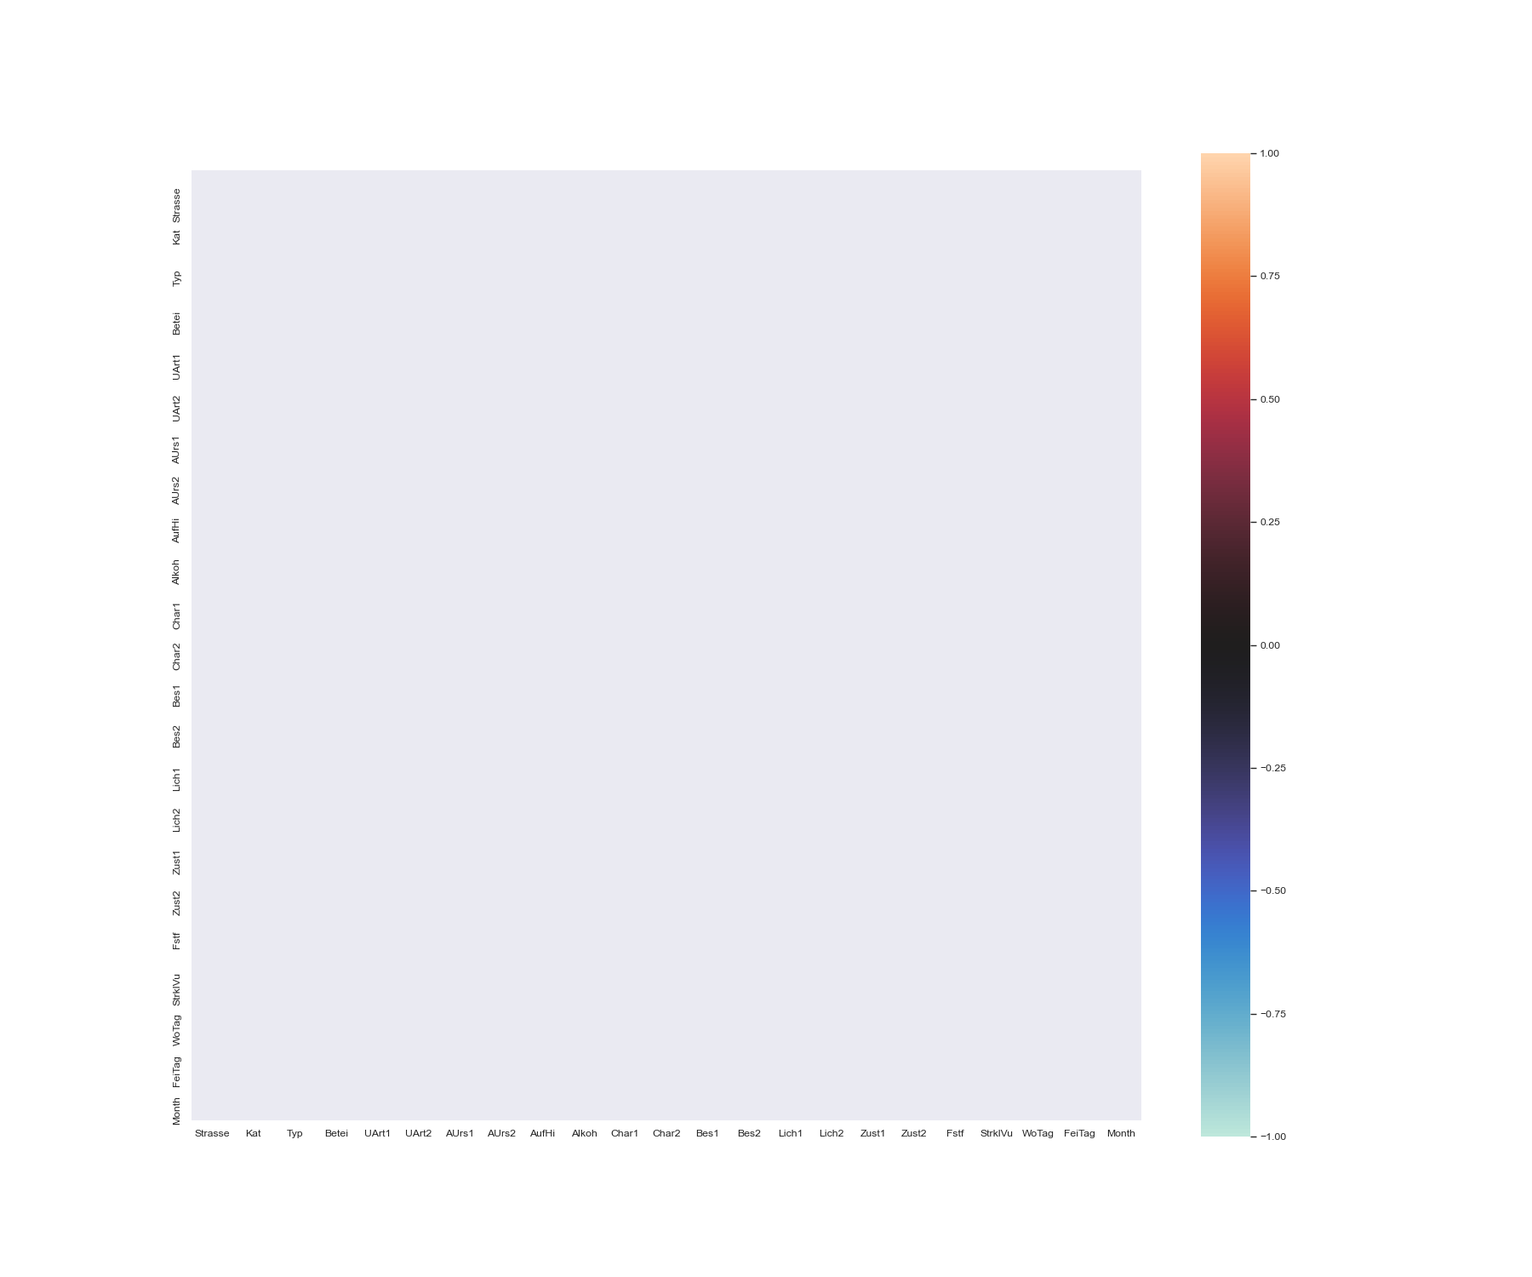
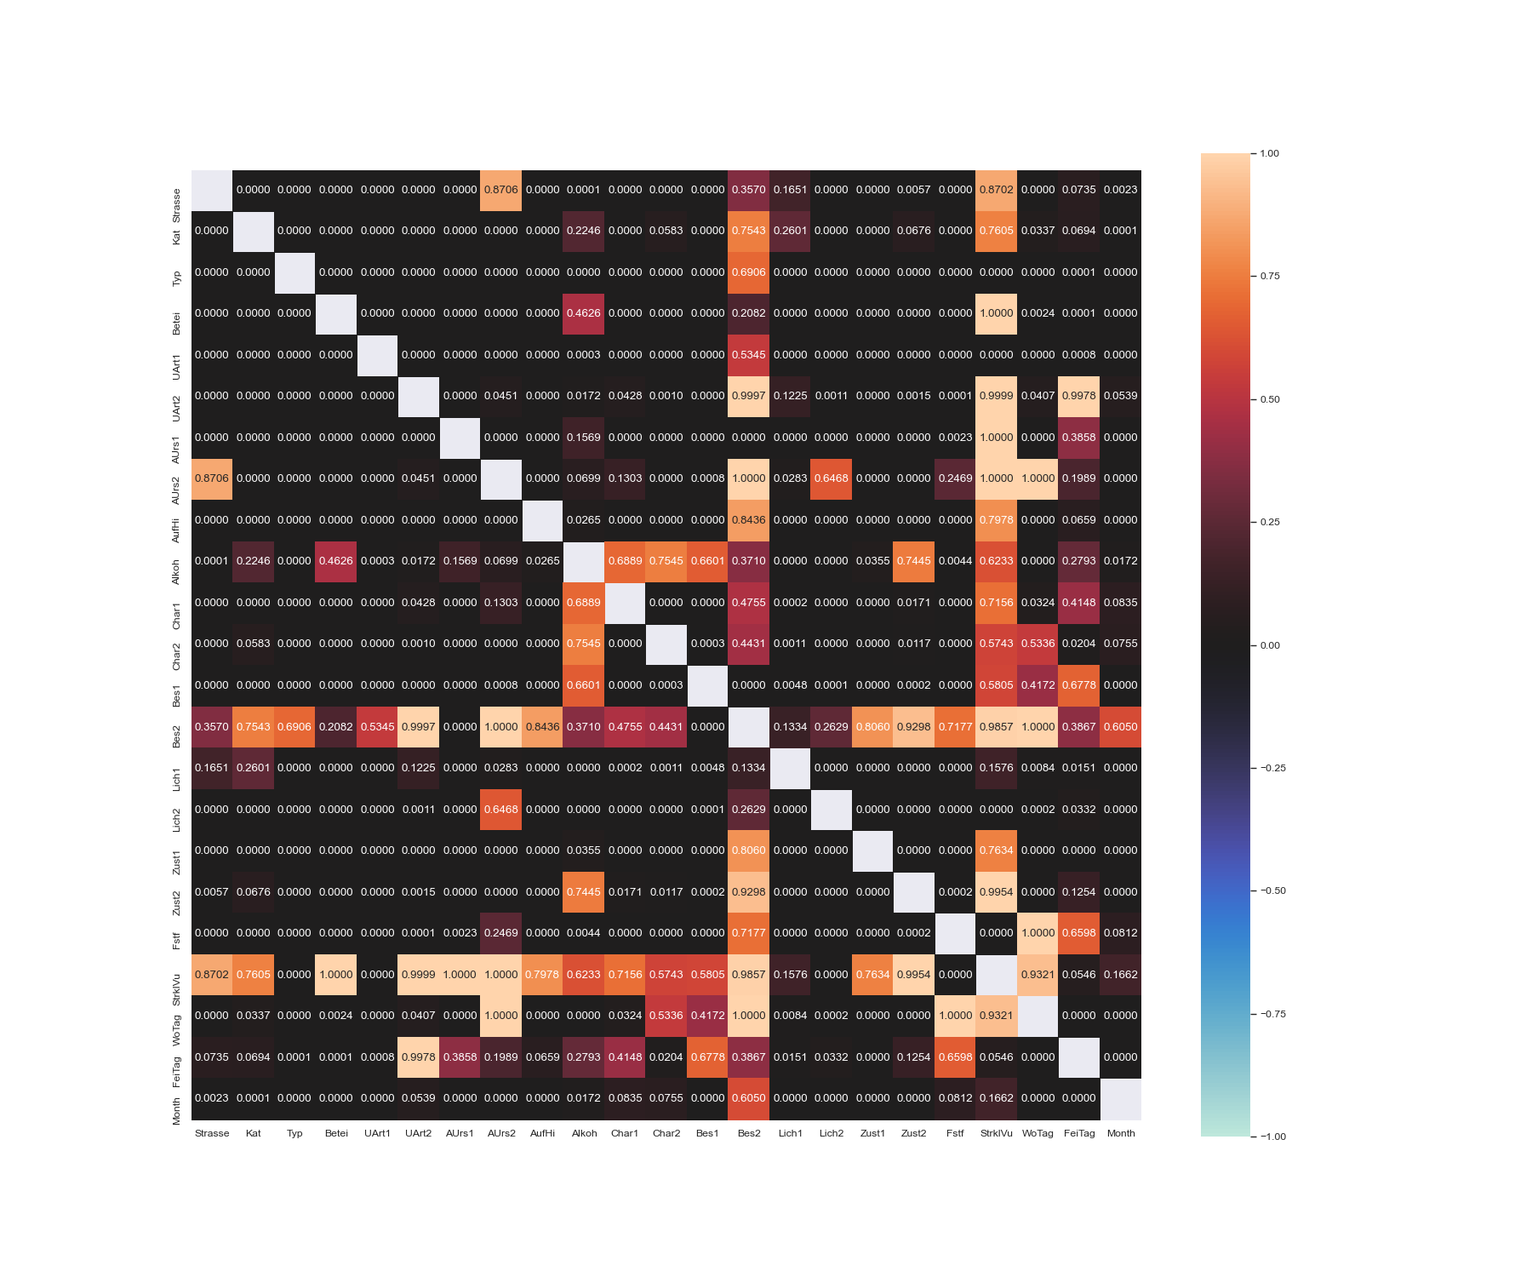
cramers v and theils u now with soignifnancy

diff --git a/CorrAnalysis/data/BAYSIS/dataset/latex/baysis_dataset_sign_cramers.tex b/CorrAnalysis/data/BAYSIS/dataset/latex/baysis_dataset_sign_cramers.tex
@@ -1,29 +1,29 @@
 \begin{tabular}{lrrrrrrrrrrrrrrrrrrrrrrr}
 \toprule
-{} &  Strasse &  Kat &  Typ &  Betei &  UArt1 &  UArt2 &  AUrs1 &  AUrs2 &  AufHi &  Alkoh &  Char1 &  Char2 &  Bes1 &  Bes2 &  Lich1 &  Lich2 &  Zust1 &  Zust2 &  Fstf &  StrklVu &  WoTag &  FeiTag &  Month \\
+{} &  Strasse &     Kat &     Typ &   Betei &   UArt1 &   UArt2 &   AUrs1 &   AUrs2 &   AufHi &   Alkoh &   Char1 &   Char2 &    Bes1 &    Bes2 &   Lich1 &   Lich2 &   Zust1 &   Zust2 &    Fstf &  StrklVu &   WoTag &  FeiTag &   Month \\
 \midrule
-Strasse &      NaN &  NaN &  NaN &    NaN &    NaN &    NaN &    NaN &    NaN &    NaN &    NaN &    NaN &    NaN &   NaN &   NaN &    NaN &    NaN &    NaN &    NaN &   NaN &      NaN &    NaN &     NaN &    NaN \\
-Kat     &      NaN &  NaN &  NaN &    NaN &    NaN &    NaN &    NaN &    NaN &    NaN &    NaN &    NaN &    NaN &   NaN &   NaN &    NaN &    NaN &    NaN &    NaN &   NaN &      NaN &    NaN &     NaN &    NaN \\
-Typ     &      NaN &  NaN &  NaN &    NaN &    NaN &    NaN &    NaN &    NaN &    NaN &    NaN &    NaN &    NaN &   NaN &   NaN &    NaN &    NaN &    NaN &    NaN &   NaN &      NaN &    NaN &     NaN &    NaN \\
-Betei   &      NaN &  NaN &  NaN &    NaN &    NaN &    NaN &    NaN &    NaN &    NaN &    NaN &    NaN &    NaN &   NaN &   NaN &    NaN &    NaN &    NaN &    NaN &   NaN &      NaN &    NaN &     NaN &    NaN \\
-UArt1   &      NaN &  NaN &  NaN &    NaN &    NaN &    NaN &    NaN &    NaN &    NaN &    NaN &    NaN &    NaN &   NaN &   NaN &    NaN &    NaN &    NaN &    NaN &   NaN &      NaN &    NaN &     NaN &    NaN \\
-UArt2   &      NaN &  NaN &  NaN &    NaN &    NaN &    NaN &    NaN &    NaN &    NaN &    NaN &    NaN &    NaN &   NaN &   NaN &    NaN &    NaN &    NaN &    NaN &   NaN &      NaN &    NaN &     NaN &    NaN \\
-AUrs1   &      NaN &  NaN &  NaN &    NaN &    NaN &    NaN &    NaN &    NaN &    NaN &    NaN &    NaN &    NaN &   NaN &   NaN &    NaN &    NaN &    NaN &    NaN &   NaN &      NaN &    NaN &     NaN &    NaN \\
-AUrs2   &      NaN &  NaN &  NaN &    NaN &    NaN &    NaN &    NaN &    NaN &    NaN &    NaN &    NaN &    NaN &   NaN &   NaN &    NaN &    NaN &    NaN &    NaN &   NaN &      NaN &    NaN &     NaN &    NaN \\
-AufHi   &      NaN &  NaN &  NaN &    NaN &    NaN &    NaN &    NaN &    NaN &    NaN &    NaN &    NaN &    NaN &   NaN &   NaN &    NaN &    NaN &    NaN &    NaN &   NaN &      NaN &    NaN &     NaN &    NaN \\
-Alkoh   &      NaN &  NaN &  NaN &    NaN &    NaN &    NaN &    NaN &    NaN &    NaN &    NaN &    NaN &    NaN &   NaN &   NaN &    NaN &    NaN &    NaN &    NaN &   NaN &      NaN &    NaN &     NaN &    NaN \\
-Char1   &      NaN &  NaN &  NaN &    NaN &    NaN &    NaN &    NaN &    NaN &    NaN &    NaN &    NaN &    NaN &   NaN &   NaN &    NaN &    NaN &    NaN &    NaN &   NaN &      NaN &    NaN &     NaN &    NaN \\
-Char2   &      NaN &  NaN &  NaN &    NaN &    NaN &    NaN &    NaN &    NaN &    NaN &    NaN &    NaN &    NaN &   NaN &   NaN &    NaN &    NaN &    NaN &    NaN &   NaN &      NaN &    NaN &     NaN &    NaN \\
-Bes1    &      NaN &  NaN &  NaN &    NaN &    NaN &    NaN &    NaN &    NaN &    NaN &    NaN &    NaN &    NaN &   NaN &   NaN &    NaN &    NaN &    NaN &    NaN &   NaN &      NaN &    NaN &     NaN &    NaN \\
-Bes2    &      NaN &  NaN &  NaN &    NaN &    NaN &    NaN &    NaN &    NaN &    NaN &    NaN &    NaN &    NaN &   NaN &   NaN &    NaN &    NaN &    NaN &    NaN &   NaN &      NaN &    NaN &     NaN &    NaN \\
-Lich1   &      NaN &  NaN &  NaN &    NaN &    NaN &    NaN &    NaN &    NaN &    NaN &    NaN &    NaN &    NaN &   NaN &   NaN &    NaN &    NaN &    NaN &    NaN &   NaN &      NaN &    NaN &     NaN &    NaN \\
-Lich2   &      NaN &  NaN &  NaN &    NaN &    NaN &    NaN &    NaN &    NaN &    NaN &    NaN &    NaN &    NaN &   NaN &   NaN &    NaN &    NaN &    NaN &    NaN &   NaN &      NaN &    NaN &     NaN &    NaN \\
-Zust1   &      NaN &  NaN &  NaN &    NaN &    NaN &    NaN &    NaN &    NaN &    NaN &    NaN &    NaN &    NaN &   NaN &   NaN &    NaN &    NaN &    NaN &    NaN &   NaN &      NaN &    NaN &     NaN &    NaN \\
-Zust2   &      NaN &  NaN &  NaN &    NaN &    NaN &    NaN &    NaN &    NaN &    NaN &    NaN &    NaN &    NaN &   NaN &   NaN &    NaN &    NaN &    NaN &    NaN &   NaN &      NaN &    NaN &     NaN &    NaN \\
-Fstf    &      NaN &  NaN &  NaN &    NaN &    NaN &    NaN &    NaN &    NaN &    NaN &    NaN &    NaN &    NaN &   NaN &   NaN &    NaN &    NaN &    NaN &    NaN &   NaN &      NaN &    NaN &     NaN &    NaN \\
-StrklVu &      NaN &  NaN &  NaN &    NaN &    NaN &    NaN &    NaN &    NaN &    NaN &    NaN &    NaN &    NaN &   NaN &   NaN &    NaN &    NaN &    NaN &    NaN &   NaN &      NaN &    NaN &     NaN &    NaN \\
-WoTag   &      NaN &  NaN &  NaN &    NaN &    NaN &    NaN &    NaN &    NaN &    NaN &    NaN &    NaN &    NaN &   NaN &   NaN &    NaN &    NaN &    NaN &    NaN &   NaN &      NaN &    NaN &     NaN &    NaN \\
-FeiTag  &      NaN &  NaN &  NaN &    NaN &    NaN &    NaN &    NaN &    NaN &    NaN &    NaN &    NaN &    NaN &   NaN &   NaN &    NaN &    NaN &    NaN &    NaN &   NaN &      NaN &    NaN &     NaN &    NaN \\
-Month   &      NaN &  NaN &  NaN &    NaN &    NaN &    NaN &    NaN &    NaN &    NaN &    NaN &    NaN &    NaN &   NaN &   NaN &    NaN &    NaN &    NaN &    NaN &   NaN &      NaN &    NaN &     NaN &    NaN \\
+Strasse &      NaN &  0.0000 &  0.0000 &  0.0000 &  0.0000 &  0.0000 &  0.0000 &  0.8706 &  0.0000 &  0.0001 &  0.0000 &  0.0000 &  0.0000 &  0.3570 &  0.1651 &  0.0000 &  0.0000 &  0.0057 &  0.0000 &   0.8702 &  0.0000 &  0.0735 &  0.0023 \\
+Kat     &   0.0000 &     NaN &  0.0000 &  0.0000 &  0.0000 &  0.0000 &  0.0000 &  0.0000 &  0.0000 &  0.2246 &  0.0000 &  0.0583 &  0.0000 &  0.7543 &  0.2601 &  0.0000 &  0.0000 &  0.0676 &  0.0000 &   0.7605 &  0.0337 &  0.0694 &  0.0001 \\
+Typ     &   0.0000 &  0.0000 &     NaN &  0.0000 &  0.0000 &  0.0000 &  0.0000 &  0.0000 &  0.0000 &  0.0000 &  0.0000 &  0.0000 &  0.0000 &  0.6906 &  0.0000 &  0.0000 &  0.0000 &  0.0000 &  0.0000 &   0.0000 &  0.0000 &  0.0001 &  0.0000 \\
+Betei   &   0.0000 &  0.0000 &  0.0000 &     NaN &  0.0000 &  0.0000 &  0.0000 &  0.0000 &  0.0000 &  0.4626 &  0.0000 &  0.0000 &  0.0000 &  0.2082 &  0.0000 &  0.0000 &  0.0000 &  0.0000 &  0.0000 &   1.0000 &  0.0024 &  0.0001 &  0.0000 \\
+UArt1   &   0.0000 &  0.0000 &  0.0000 &  0.0000 &     NaN &  0.0000 &  0.0000 &  0.0000 &  0.0000 &  0.0003 &  0.0000 &  0.0000 &  0.0000 &  0.5345 &  0.0000 &  0.0000 &  0.0000 &  0.0000 &  0.0000 &   0.0000 &  0.0000 &  0.0008 &  0.0000 \\
+UArt2   &   0.0000 &  0.0000 &  0.0000 &  0.0000 &  0.0000 &     NaN &  0.0000 &  0.0451 &  0.0000 &  0.0172 &  0.0428 &  0.0010 &  0.0000 &  0.9997 &  0.1225 &  0.0011 &  0.0000 &  0.0015 &  0.0001 &   0.9999 &  0.0407 &  0.9978 &  0.0539 \\
+AUrs1   &   0.0000 &  0.0000 &  0.0000 &  0.0000 &  0.0000 &  0.0000 &     NaN &  0.0000 &  0.0000 &  0.1569 &  0.0000 &  0.0000 &  0.0000 &  0.0000 &  0.0000 &  0.0000 &  0.0000 &  0.0000 &  0.0023 &   1.0000 &  0.0000 &  0.3858 &  0.0000 \\
+AUrs2   &   0.8706 &  0.0000 &  0.0000 &  0.0000 &  0.0000 &  0.0451 &  0.0000 &     NaN &  0.0000 &  0.0699 &  0.1303 &  0.0000 &  0.0008 &  1.0000 &  0.0283 &  0.6468 &  0.0000 &  0.0000 &  0.2469 &   1.0000 &  1.0000 &  0.1989 &  0.0000 \\
+AufHi   &   0.0000 &  0.0000 &  0.0000 &  0.0000 &  0.0000 &  0.0000 &  0.0000 &  0.0000 &     NaN &  0.0265 &  0.0000 &  0.0000 &  0.0000 &  0.8436 &  0.0000 &  0.0000 &  0.0000 &  0.0000 &  0.0000 &   0.7978 &  0.0000 &  0.0659 &  0.0000 \\
+Alkoh   &   0.0001 &  0.2246 &  0.0000 &  0.4626 &  0.0003 &  0.0172 &  0.1569 &  0.0699 &  0.0265 &     NaN &  0.6889 &  0.7545 &  0.6601 &  0.3710 &  0.0000 &  0.0000 &  0.0355 &  0.7445 &  0.0044 &   0.6233 &  0.0000 &  0.2793 &  0.0172 \\
+Char1   &   0.0000 &  0.0000 &  0.0000 &  0.0000 &  0.0000 &  0.0428 &  0.0000 &  0.1303 &  0.0000 &  0.6889 &     NaN &  0.0000 &  0.0000 &  0.4755 &  0.0002 &  0.0000 &  0.0000 &  0.0171 &  0.0000 &   0.7156 &  0.0324 &  0.4148 &  0.0835 \\
+Char2   &   0.0000 &  0.0583 &  0.0000 &  0.0000 &  0.0000 &  0.0010 &  0.0000 &  0.0000 &  0.0000 &  0.7545 &  0.0000 &     NaN &  0.0003 &  0.4431 &  0.0011 &  0.0000 &  0.0000 &  0.0117 &  0.0000 &   0.5743 &  0.5336 &  0.0204 &  0.0755 \\
+Bes1    &   0.0000 &  0.0000 &  0.0000 &  0.0000 &  0.0000 &  0.0000 &  0.0000 &  0.0008 &  0.0000 &  0.6601 &  0.0000 &  0.0003 &     NaN &  0.0000 &  0.0048 &  0.0001 &  0.0000 &  0.0002 &  0.0000 &   0.5805 &  0.4172 &  0.6778 &  0.0000 \\
+Bes2    &   0.3570 &  0.7543 &  0.6906 &  0.2082 &  0.5345 &  0.9997 &  0.0000 &  1.0000 &  0.8436 &  0.3710 &  0.4755 &  0.4431 &  0.0000 &     NaN &  0.1334 &  0.2629 &  0.8060 &  0.9298 &  0.7177 &   0.9857 &  1.0000 &  0.3867 &  0.6050 \\
+Lich1   &   0.1651 &  0.2601 &  0.0000 &  0.0000 &  0.0000 &  0.1225 &  0.0000 &  0.0283 &  0.0000 &  0.0000 &  0.0002 &  0.0011 &  0.0048 &  0.1334 &     NaN &  0.0000 &  0.0000 &  0.0000 &  0.0000 &   0.1576 &  0.0084 &  0.0151 &  0.0000 \\
+Lich2   &   0.0000 &  0.0000 &  0.0000 &  0.0000 &  0.0000 &  0.0011 &  0.0000 &  0.6468 &  0.0000 &  0.0000 &  0.0000 &  0.0000 &  0.0001 &  0.2629 &  0.0000 &     NaN &  0.0000 &  0.0000 &  0.0000 &   0.0000 &  0.0002 &  0.0332 &  0.0000 \\
+Zust1   &   0.0000 &  0.0000 &  0.0000 &  0.0000 &  0.0000 &  0.0000 &  0.0000 &  0.0000 &  0.0000 &  0.0355 &  0.0000 &  0.0000 &  0.0000 &  0.8060 &  0.0000 &  0.0000 &     NaN &  0.0000 &  0.0000 &   0.7634 &  0.0000 &  0.0000 &  0.0000 \\
+Zust2   &   0.0057 &  0.0676 &  0.0000 &  0.0000 &  0.0000 &  0.0015 &  0.0000 &  0.0000 &  0.0000 &  0.7445 &  0.0171 &  0.0117 &  0.0002 &  0.9298 &  0.0000 &  0.0000 &  0.0000 &     NaN &  0.0002 &   0.9954 &  0.0000 &  0.1254 &  0.0000 \\
+Fstf    &   0.0000 &  0.0000 &  0.0000 &  0.0000 &  0.0000 &  0.0001 &  0.0023 &  0.2469 &  0.0000 &  0.0044 &  0.0000 &  0.0000 &  0.0000 &  0.7177 &  0.0000 &  0.0000 &  0.0000 &  0.0002 &     NaN &   0.0000 &  1.0000 &  0.6598 &  0.0812 \\
+StrklVu &   0.8702 &  0.7605 &  0.0000 &  1.0000 &  0.0000 &  0.9999 &  1.0000 &  1.0000 &  0.7978 &  0.6233 &  0.7156 &  0.5743 &  0.5805 &  0.9857 &  0.1576 &  0.0000 &  0.7634 &  0.9954 &  0.0000 &      NaN &  0.9321 &  0.0546 &  0.1662 \\
+WoTag   &   0.0000 &  0.0337 &  0.0000 &  0.0024 &  0.0000 &  0.0407 &  0.0000 &  1.0000 &  0.0000 &  0.0000 &  0.0324 &  0.5336 &  0.4172 &  1.0000 &  0.0084 &  0.0002 &  0.0000 &  0.0000 &  1.0000 &   0.9321 &     NaN &  0.0000 &  0.0000 \\
+FeiTag  &   0.0735 &  0.0694 &  0.0001 &  0.0001 &  0.0008 &  0.9978 &  0.3858 &  0.1989 &  0.0659 &  0.2793 &  0.4148 &  0.0204 &  0.6778 &  0.3867 &  0.0151 &  0.0332 &  0.0000 &  0.1254 &  0.6598 &   0.0546 &  0.0000 &     NaN &  0.0000 \\
+Month   &   0.0023 &  0.0001 &  0.0000 &  0.0000 &  0.0000 &  0.0539 &  0.0000 &  0.0000 &  0.0000 &  0.0172 &  0.0835 &  0.0755 &  0.0000 &  0.6050 &  0.0000 &  0.0000 &  0.0000 &  0.0000 &  0.0812 &   0.1662 &  0.0000 &  0.0000 &     NaN \\
 \bottomrule
 \end{tabular}

diff --git a/CorrAnalysis/data/BAYSIS/dataset/latex/baysis_dataset_sign_theils.tex b/CorrAnalysis/data/BAYSIS/dataset/latex/baysis_dataset_sign_theils.tex
@@ -1,29 +1,29 @@
 \begin{tabular}{lrrrrrrrrrrrrrrrrrrrrrrr}
 \toprule
-{} &  Strasse &  Kat &  Typ &  Betei &  UArt1 &  UArt2 &  AUrs1 &  AUrs2 &  AufHi &  Alkoh &  Char1 &  Char2 &  Bes1 &  Bes2 &  Lich1 &  Lich2 &  Zust1 &  Zust2 &  Fstf &  StrklVu &  WoTag &  FeiTag &  Month \\
+{} &  Strasse &     Kat &     Typ &   Betei &   UArt1 &   UArt2 &   AUrs1 &   AUrs2 &   AufHi &   Alkoh &   Char1 &   Char2 &    Bes1 &    Bes2 &   Lich1 &   Lich2 &   Zust1 &   Zust2 &    Fstf &  StrklVu &   WoTag &  FeiTag &   Month \\
 \midrule
-Strasse &      NaN &  NaN &  NaN &    NaN &    NaN &    NaN &    NaN &    NaN &    NaN &    NaN &    NaN &    NaN &   NaN &   NaN &    NaN &    NaN &    NaN &    NaN &   NaN &      NaN &    NaN &     NaN &    NaN \\
-Kat     &      NaN &  NaN &  NaN &    NaN &    NaN &    NaN &    NaN &    NaN &    NaN &    NaN &    NaN &    NaN &   NaN &   NaN &    NaN &    NaN &    NaN &    NaN &   NaN &      NaN &    NaN &     NaN &    NaN \\
-Typ     &      NaN &  NaN &  NaN &    NaN &    NaN &    NaN &    NaN &    NaN &    NaN &    NaN &    NaN &    NaN &   NaN &   NaN &    NaN &    NaN &    NaN &    NaN &   NaN &      NaN &    NaN &     NaN &    NaN \\
-Betei   &      NaN &  NaN &  NaN &    NaN &    NaN &    NaN &    NaN &    NaN &    NaN &    NaN &    NaN &    NaN &   NaN &   NaN &    NaN &    NaN &    NaN &    NaN &   NaN &      NaN &    NaN &     NaN &    NaN \\
-UArt1   &      NaN &  NaN &  NaN &    NaN &    NaN &    NaN &    NaN &    NaN &    NaN &    NaN &    NaN &    NaN &   NaN &   NaN &    NaN &    NaN &    NaN &    NaN &   NaN &      NaN &    NaN &     NaN &    NaN \\
-UArt2   &      NaN &  NaN &  NaN &    NaN &    NaN &    NaN &    NaN &    NaN &    NaN &    NaN &    NaN &    NaN &   NaN &   NaN &    NaN &    NaN &    NaN &    NaN &   NaN &      NaN &    NaN &     NaN &    NaN \\
-AUrs1   &      NaN &  NaN &  NaN &    NaN &    NaN &    NaN &    NaN &    NaN &    NaN &    NaN &    NaN &    NaN &   NaN &   NaN &    NaN &    NaN &    NaN &    NaN &   NaN &      NaN &    NaN &     NaN &    NaN \\
-AUrs2   &      NaN &  NaN &  NaN &    NaN &    NaN &    NaN &    NaN &    NaN &    NaN &    NaN &    NaN &    NaN &   NaN &   NaN &    NaN &    NaN &    NaN &    NaN &   NaN &      NaN &    NaN &     NaN &    NaN \\
-AufHi   &      NaN &  NaN &  NaN &    NaN &    NaN &    NaN &    NaN &    NaN &    NaN &    NaN &    NaN &    NaN &   NaN &   NaN &    NaN &    NaN &    NaN &    NaN &   NaN &      NaN &    NaN &     NaN &    NaN \\
-Alkoh   &      NaN &  NaN &  NaN &    NaN &    NaN &    NaN &    NaN &    NaN &    NaN &    NaN &    NaN &    NaN &   NaN &   NaN &    NaN &    NaN &    NaN &    NaN &   NaN &      NaN &    NaN &     NaN &    NaN \\
-Char1   &      NaN &  NaN &  NaN &    NaN &    NaN &    NaN &    NaN &    NaN &    NaN &    NaN &    NaN &    NaN &   NaN &   NaN &    NaN &    NaN &    NaN &    NaN &   NaN &      NaN &    NaN &     NaN &    NaN \\
-Char2   &      NaN &  NaN &  NaN &    NaN &    NaN &    NaN &    NaN &    NaN &    NaN &    NaN &    NaN &    NaN &   NaN &   NaN &    NaN &    NaN &    NaN &    NaN &   NaN &      NaN &    NaN &     NaN &    NaN \\
-Bes1    &      NaN &  NaN &  NaN &    NaN &    NaN &    NaN &    NaN &    NaN &    NaN &    NaN &    NaN &    NaN &   NaN &   NaN &    NaN &    NaN &    NaN &    NaN &   NaN &      NaN &    NaN &     NaN &    NaN \\
-Bes2    &      NaN &  NaN &  NaN &    NaN &    NaN &    NaN &    NaN &    NaN &    NaN &    NaN &    NaN &    NaN &   NaN &   NaN &    NaN &    NaN &    NaN &    NaN &   NaN &      NaN &    NaN &     NaN &    NaN \\
-Lich1   &      NaN &  NaN &  NaN &    NaN &    NaN &    NaN &    NaN &    NaN &    NaN &    NaN &    NaN &    NaN &   NaN &   NaN &    NaN &    NaN &    NaN &    NaN &   NaN &      NaN &    NaN &     NaN &    NaN \\
-Lich2   &      NaN &  NaN &  NaN &    NaN &    NaN &    NaN &    NaN &    NaN &    NaN &    NaN &    NaN &    NaN &   NaN &   NaN &    NaN &    NaN &    NaN &    NaN &   NaN &      NaN &    NaN &     NaN &    NaN \\
-Zust1   &      NaN &  NaN &  NaN &    NaN &    NaN &    NaN &    NaN &    NaN &    NaN &    NaN &    NaN &    NaN &   NaN &   NaN &    NaN &    NaN &    NaN &    NaN &   NaN &      NaN &    NaN &     NaN &    NaN \\
-Zust2   &      NaN &  NaN &  NaN &    NaN &    NaN &    NaN &    NaN &    NaN &    NaN &    NaN &    NaN &    NaN &   NaN &   NaN &    NaN &    NaN &    NaN &    NaN &   NaN &      NaN &    NaN &     NaN &    NaN \\
-Fstf    &      NaN &  NaN &  NaN &    NaN &    NaN &    NaN &    NaN &    NaN &    NaN &    NaN &    NaN &    NaN &   NaN &   NaN &    NaN &    NaN &    NaN &    NaN &   NaN &      NaN &    NaN &     NaN &    NaN \\
-StrklVu &      NaN &  NaN &  NaN &    NaN &    NaN &    NaN &    NaN &    NaN &    NaN &    NaN &    NaN &    NaN &   NaN &   NaN &    NaN &    NaN &    NaN &    NaN &   NaN &      NaN &    NaN &     NaN &    NaN \\
-WoTag   &      NaN &  NaN &  NaN &    NaN &    NaN &    NaN &    NaN &    NaN &    NaN &    NaN &    NaN &    NaN &   NaN &   NaN &    NaN &    NaN &    NaN &    NaN &   NaN &      NaN &    NaN &     NaN &    NaN \\
-FeiTag  &      NaN &  NaN &  NaN &    NaN &    NaN &    NaN &    NaN &    NaN &    NaN &    NaN &    NaN &    NaN &   NaN &   NaN &    NaN &    NaN &    NaN &    NaN &   NaN &      NaN &    NaN &     NaN &    NaN \\
-Month   &      NaN &  NaN &  NaN &    NaN &    NaN &    NaN &    NaN &    NaN &    NaN &    NaN &    NaN &    NaN &   NaN &   NaN &    NaN &    NaN &    NaN &    NaN &   NaN &      NaN &    NaN &     NaN &    NaN \\
+Strasse &      NaN &  0.0000 &  0.0000 &  0.0000 &  0.0000 &  0.0000 &  0.0000 &  0.8706 &  0.0000 &  0.0001 &  0.0000 &  0.0000 &  0.0000 &  0.3570 &  0.1651 &  0.0000 &  0.0000 &  0.0057 &  0.0000 &   0.8702 &  0.0000 &  0.0735 &  0.0023 \\
+Kat     &   0.0000 &     NaN &  0.0000 &  0.0000 &  0.0000 &  0.0000 &  0.0000 &  0.0000 &  0.0000 &  0.2246 &  0.0000 &  0.0583 &  0.0000 &  0.7543 &  0.2601 &  0.0000 &  0.0000 &  0.0676 &  0.0000 &   0.7605 &  0.0337 &  0.0694 &  0.0001 \\
+Typ     &   0.0000 &  0.0000 &     NaN &  0.0000 &  0.0000 &  0.0000 &  0.0000 &  0.0000 &  0.0000 &  0.0000 &  0.0000 &  0.0000 &  0.0000 &  0.6906 &  0.0000 &  0.0000 &  0.0000 &  0.0000 &  0.0000 &   0.0000 &  0.0000 &  0.0001 &  0.0000 \\
+Betei   &   0.0000 &  0.0000 &  0.0000 &     NaN &  0.0000 &  0.0000 &  0.0000 &  0.0000 &  0.0000 &  0.4626 &  0.0000 &  0.0000 &  0.0000 &  0.2082 &  0.0000 &  0.0000 &  0.0000 &  0.0000 &  0.0000 &   1.0000 &  0.0024 &  0.0001 &  0.0000 \\
+UArt1   &   0.0000 &  0.0000 &  0.0000 &  0.0000 &     NaN &  0.0000 &  0.0000 &  0.0000 &  0.0000 &  0.0003 &  0.0000 &  0.0000 &  0.0000 &  0.5345 &  0.0000 &  0.0000 &  0.0000 &  0.0000 &  0.0000 &   0.0000 &  0.0000 &  0.0008 &  0.0000 \\
+UArt2   &   0.0000 &  0.0000 &  0.0000 &  0.0000 &  0.0000 &     NaN &  0.0000 &  0.0451 &  0.0000 &  0.0172 &  0.0428 &  0.0010 &  0.0000 &  0.9997 &  0.1225 &  0.0011 &  0.0000 &  0.0015 &  0.0001 &   0.9999 &  0.0407 &  0.9978 &  0.0539 \\
+AUrs1   &   0.0000 &  0.0000 &  0.0000 &  0.0000 &  0.0000 &  0.0000 &     NaN &  0.0000 &  0.0000 &  0.1569 &  0.0000 &  0.0000 &  0.0000 &  0.0000 &  0.0000 &  0.0000 &  0.0000 &  0.0000 &  0.0023 &   1.0000 &  0.0000 &  0.3858 &  0.0000 \\
+AUrs2   &   0.8706 &  0.0000 &  0.0000 &  0.0000 &  0.0000 &  0.0451 &  0.0000 &     NaN &  0.0000 &  0.0699 &  0.1303 &  0.0000 &  0.0008 &  1.0000 &  0.0283 &  0.6468 &  0.0000 &  0.0000 &  0.2469 &   1.0000 &  1.0000 &  0.1989 &  0.0000 \\
+AufHi   &   0.0000 &  0.0000 &  0.0000 &  0.0000 &  0.0000 &  0.0000 &  0.0000 &  0.0000 &     NaN &  0.0265 &  0.0000 &  0.0000 &  0.0000 &  0.8436 &  0.0000 &  0.0000 &  0.0000 &  0.0000 &  0.0000 &   0.7978 &  0.0000 &  0.0659 &  0.0000 \\
+Alkoh   &   0.0001 &  0.2246 &  0.0000 &  0.4626 &  0.0003 &  0.0172 &  0.1569 &  0.0699 &  0.0265 &     NaN &  0.6889 &  0.7545 &  0.6601 &  0.3710 &  0.0000 &  0.0000 &  0.0355 &  0.7445 &  0.0044 &   0.6233 &  0.0000 &  0.2793 &  0.0172 \\
+Char1   &   0.0000 &  0.0000 &  0.0000 &  0.0000 &  0.0000 &  0.0428 &  0.0000 &  0.1303 &  0.0000 &  0.6889 &     NaN &  0.0000 &  0.0000 &  0.4755 &  0.0002 &  0.0000 &  0.0000 &  0.0171 &  0.0000 &   0.7156 &  0.0324 &  0.4148 &  0.0835 \\
+Char2   &   0.0000 &  0.0583 &  0.0000 &  0.0000 &  0.0000 &  0.0010 &  0.0000 &  0.0000 &  0.0000 &  0.7545 &  0.0000 &     NaN &  0.0003 &  0.4431 &  0.0011 &  0.0000 &  0.0000 &  0.0117 &  0.0000 &   0.5743 &  0.5336 &  0.0204 &  0.0755 \\
+Bes1    &   0.0000 &  0.0000 &  0.0000 &  0.0000 &  0.0000 &  0.0000 &  0.0000 &  0.0008 &  0.0000 &  0.6601 &  0.0000 &  0.0003 &     NaN &  0.0000 &  0.0048 &  0.0001 &  0.0000 &  0.0002 &  0.0000 &   0.5805 &  0.4172 &  0.6778 &  0.0000 \\
+Bes2    &   0.3570 &  0.7543 &  0.6906 &  0.2082 &  0.5345 &  0.9997 &  0.0000 &  1.0000 &  0.8436 &  0.3710 &  0.4755 &  0.4431 &  0.0000 &     NaN &  0.1334 &  0.2629 &  0.8060 &  0.9298 &  0.7177 &   0.9857 &  1.0000 &  0.3867 &  0.6050 \\
+Lich1   &   0.1651 &  0.2601 &  0.0000 &  0.0000 &  0.0000 &  0.1225 &  0.0000 &  0.0283 &  0.0000 &  0.0000 &  0.0002 &  0.0011 &  0.0048 &  0.1334 &     NaN &  0.0000 &  0.0000 &  0.0000 &  0.0000 &   0.1576 &  0.0084 &  0.0151 &  0.0000 \\
+Lich2   &   0.0000 &  0.0000 &  0.0000 &  0.0000 &  0.0000 &  0.0011 &  0.0000 &  0.6468 &  0.0000 &  0.0000 &  0.0000 &  0.0000 &  0.0001 &  0.2629 &  0.0000 &     NaN &  0.0000 &  0.0000 &  0.0000 &   0.0000 &  0.0002 &  0.0332 &  0.0000 \\
+Zust1   &   0.0000 &  0.0000 &  0.0000 &  0.0000 &  0.0000 &  0.0000 &  0.0000 &  0.0000 &  0.0000 &  0.0355 &  0.0000 &  0.0000 &  0.0000 &  0.8060 &  0.0000 &  0.0000 &     NaN &  0.0000 &  0.0000 &   0.7634 &  0.0000 &  0.0000 &  0.0000 \\
+Zust2   &   0.0057 &  0.0676 &  0.0000 &  0.0000 &  0.0000 &  0.0015 &  0.0000 &  0.0000 &  0.0000 &  0.7445 &  0.0171 &  0.0117 &  0.0002 &  0.9298 &  0.0000 &  0.0000 &  0.0000 &     NaN &  0.0002 &   0.9954 &  0.0000 &  0.1254 &  0.0000 \\
+Fstf    &   0.0000 &  0.0000 &  0.0000 &  0.0000 &  0.0000 &  0.0001 &  0.0023 &  0.2469 &  0.0000 &  0.0044 &  0.0000 &  0.0000 &  0.0000 &  0.7177 &  0.0000 &  0.0000 &  0.0000 &  0.0002 &     NaN &   0.0000 &  1.0000 &  0.6598 &  0.0812 \\
+StrklVu &   0.8702 &  0.7605 &  0.0000 &  1.0000 &  0.0000 &  0.9999 &  1.0000 &  1.0000 &  0.7978 &  0.6233 &  0.7156 &  0.5743 &  0.5805 &  0.9857 &  0.1576 &  0.0000 &  0.7634 &  0.9954 &  0.0000 &      NaN &  0.9321 &  0.0546 &  0.1662 \\
+WoTag   &   0.0000 &  0.0337 &  0.0000 &  0.0024 &  0.0000 &  0.0407 &  0.0000 &  1.0000 &  0.0000 &  0.0000 &  0.0324 &  0.5336 &  0.4172 &  1.0000 &  0.0084 &  0.0002 &  0.0000 &  0.0000 &  1.0000 &   0.9321 &     NaN &  0.0000 &  0.0000 \\
+FeiTag  &   0.0735 &  0.0694 &  0.0001 &  0.0001 &  0.0008 &  0.9978 &  0.3858 &  0.1989 &  0.0659 &  0.2793 &  0.4148 &  0.0204 &  0.6778 &  0.3867 &  0.0151 &  0.0332 &  0.0000 &  0.1254 &  0.6598 &   0.0546 &  0.0000 &     NaN &  0.0000 \\
+Month   &   0.0023 &  0.0001 &  0.0000 &  0.0000 &  0.0000 &  0.0539 &  0.0000 &  0.0000 &  0.0000 &  0.0172 &  0.0835 &  0.0755 &  0.0000 &  0.6050 &  0.0000 &  0.0000 &  0.0000 &  0.0000 &  0.0812 &   0.1662 &  0.0000 &  0.0000 &     NaN \\
 \bottomrule
 \end{tabular}
